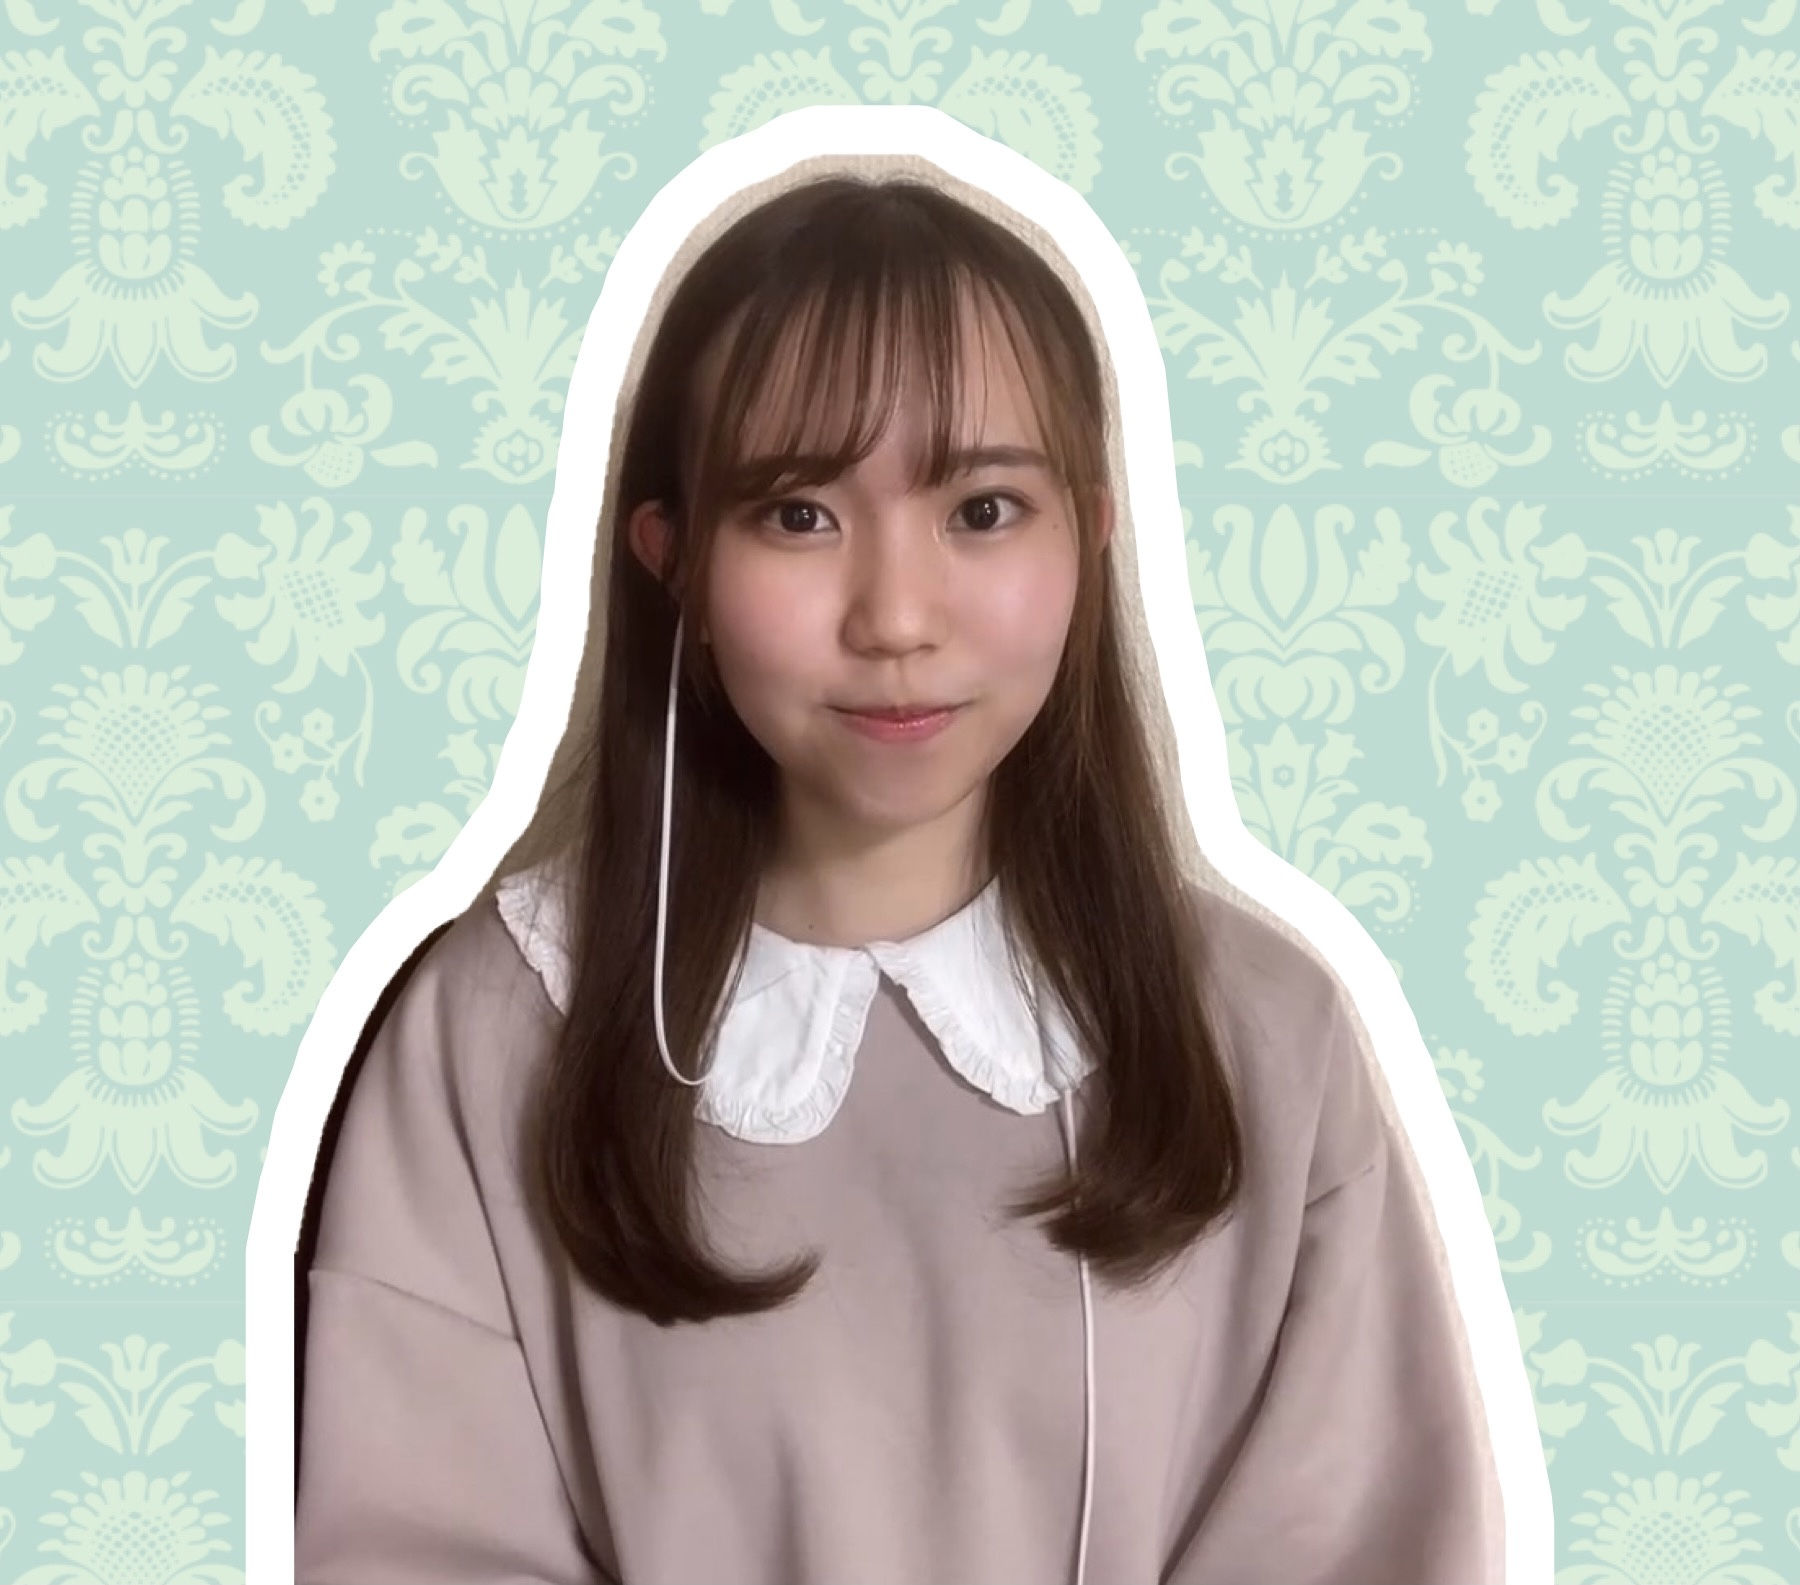
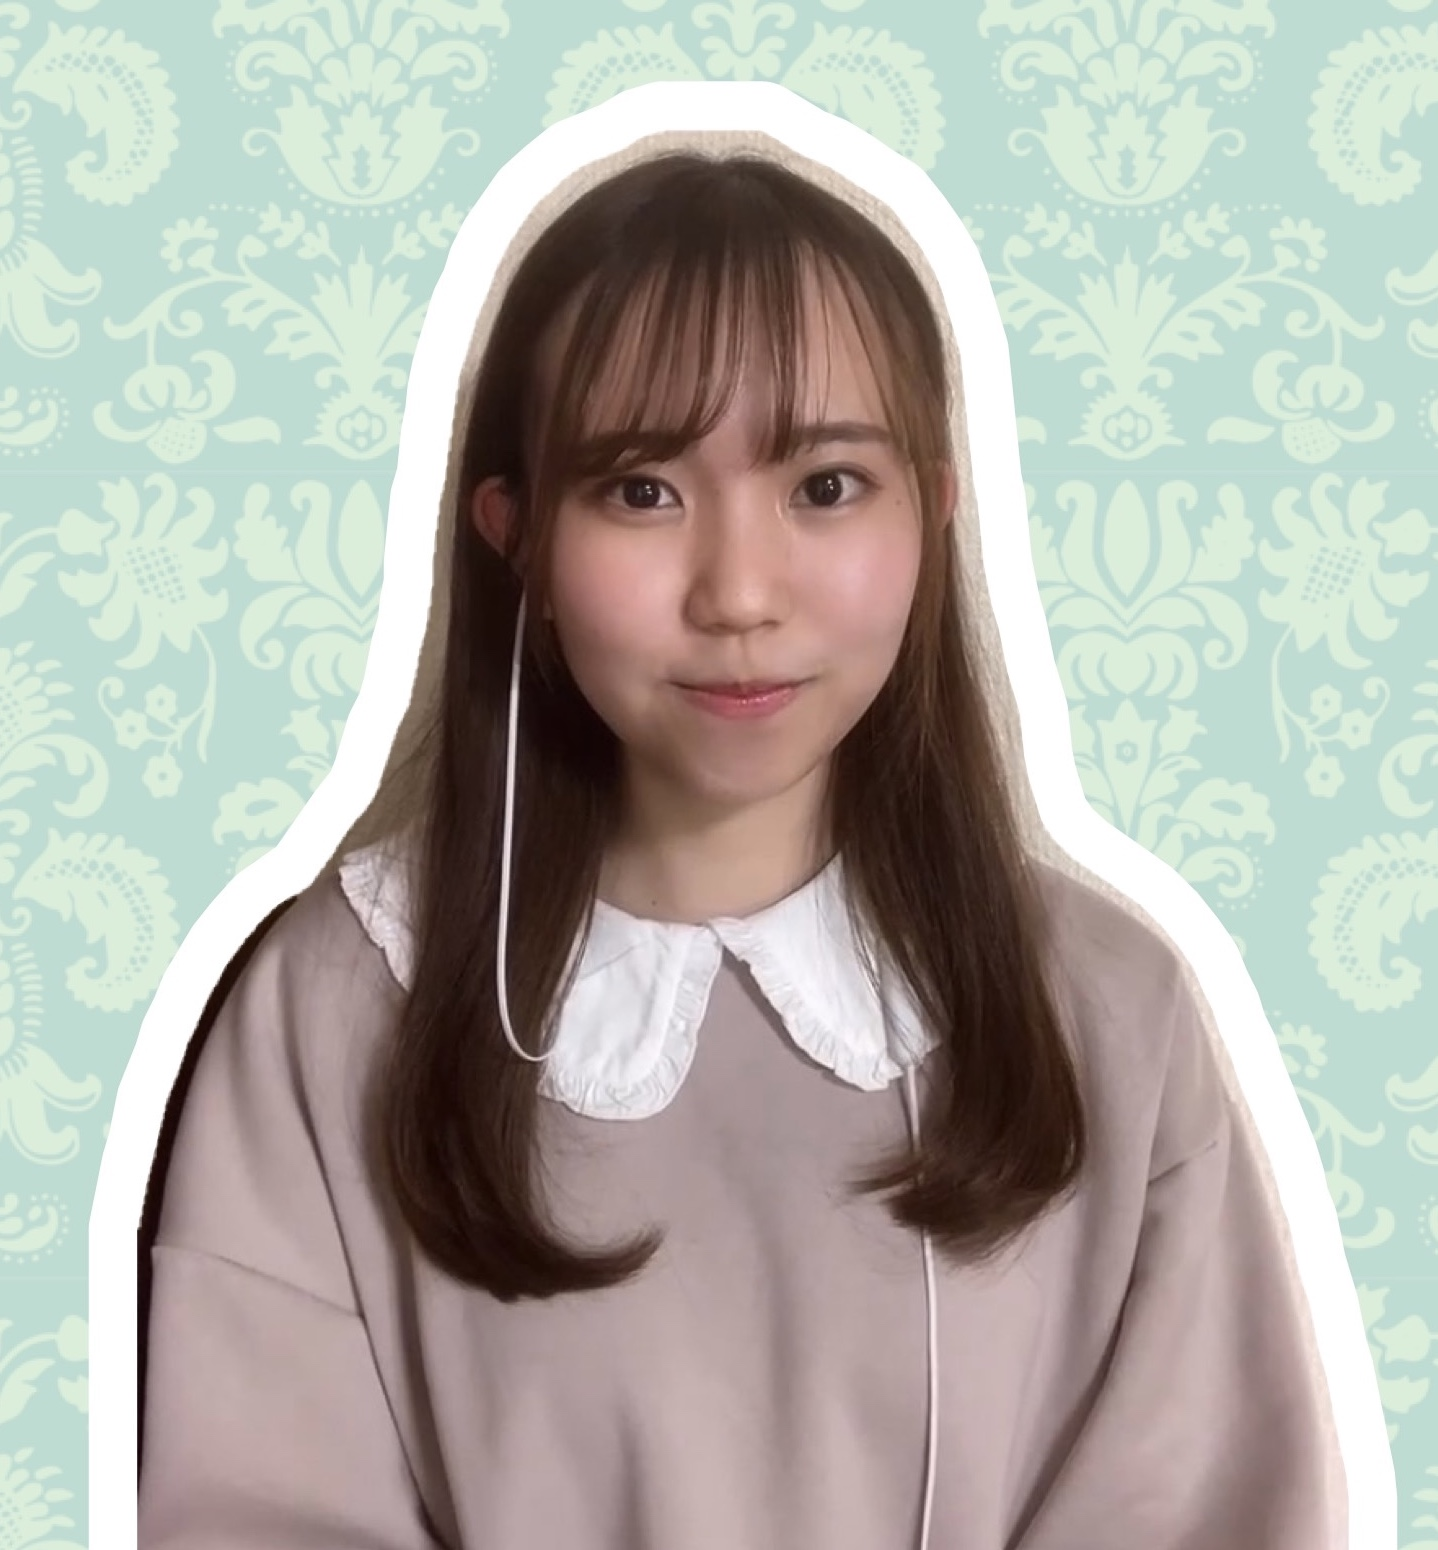
Add files via upload

diff --git a/pilot.css b/pilot.css
@@ -279,8 +279,9 @@ header{
 
 }
 
+
 .info img{
-  width:40%;
+  width:30%;
   
 }
 
@@ -298,6 +299,8 @@ header{
 
   .info img{
     width:50%;
+    height:50%;
+    /* vertical-align: middle; */
   }
 }
 
